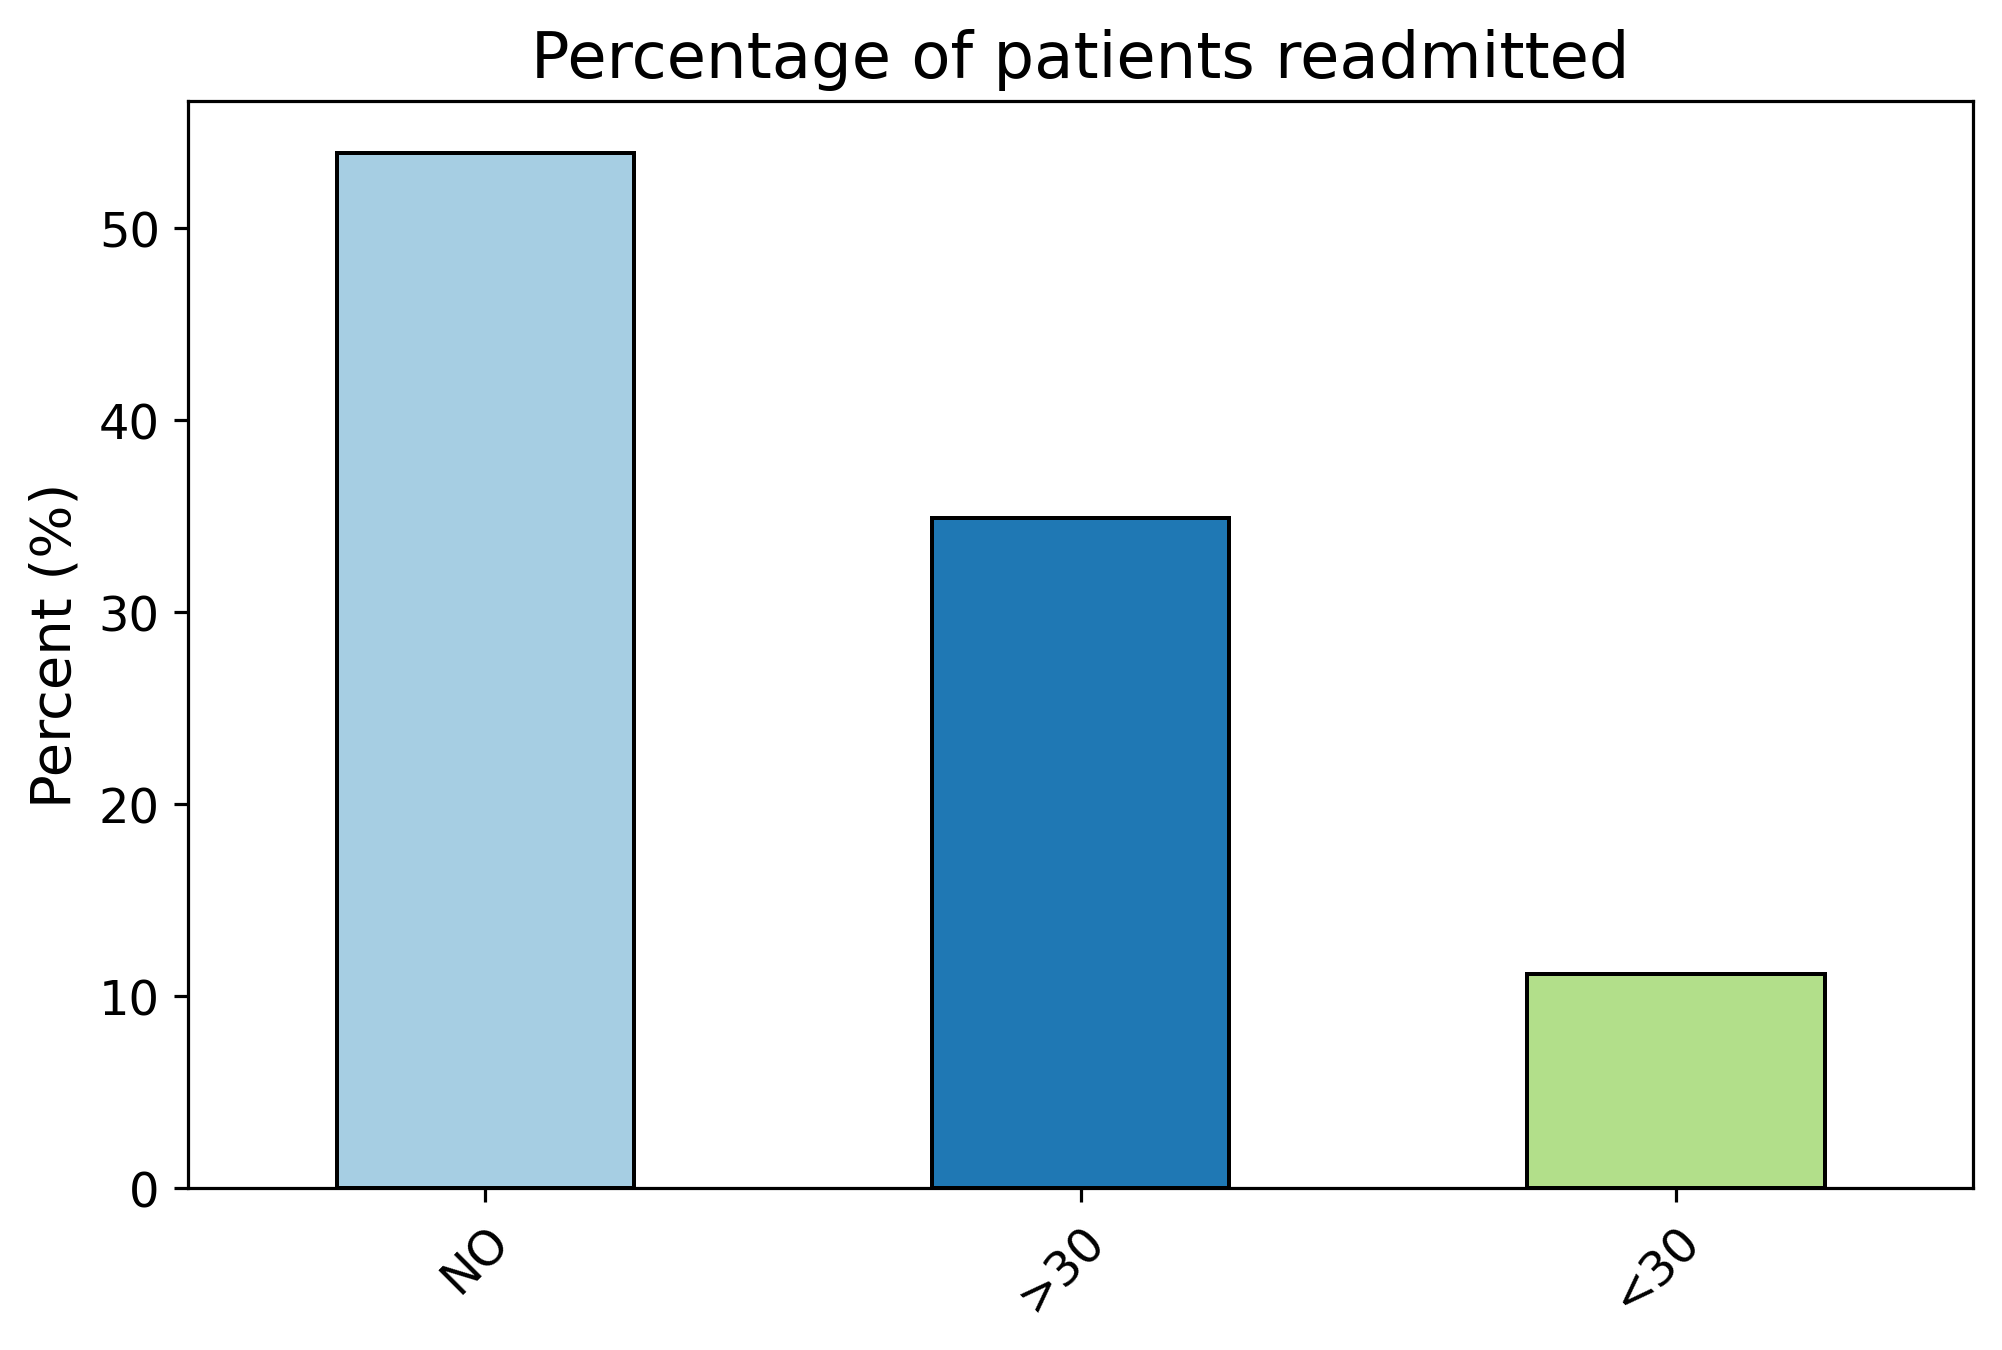
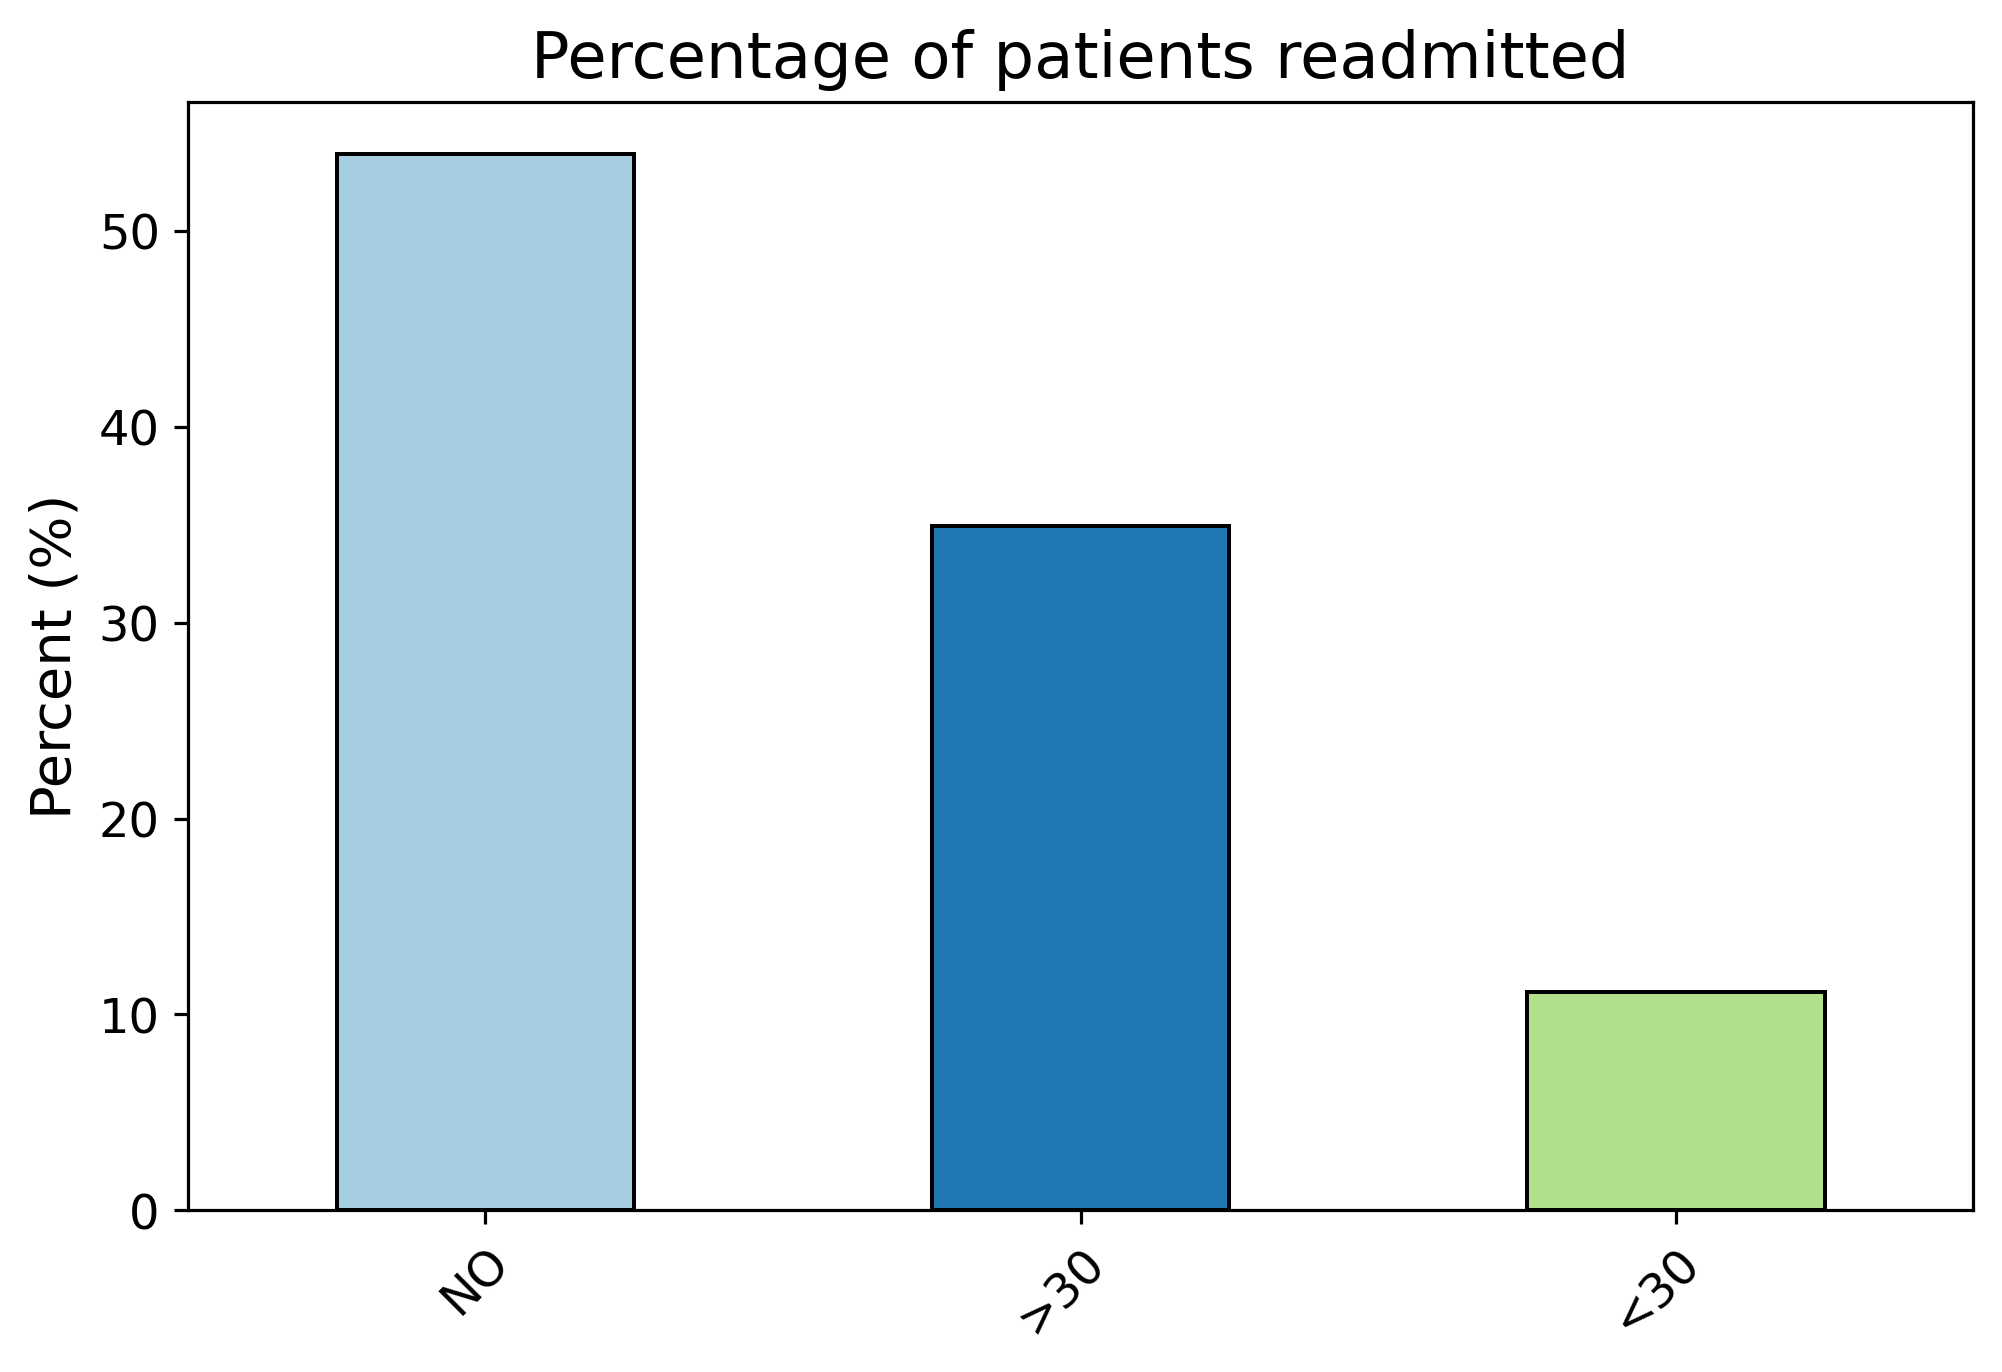
Percentage of patients readmitted

diff --git a/exploratory_data_analysis/readmitted.py b/exploratory_data_analysis/readmitted.py
@@ -1,0 +1,24 @@
+#! /usr/bin/env python
+
+import pandas as pd
+import matplotlib.pyplot as plt
+import os
+from pathlib import Path
+
+home = os.environ['HOME']
+
+work_dir = Path(home) / 'Programming/Python/machine-learning-exercises/kaggle-notebooks/diabetes-in-130-US-hospitals/'
+data_file = work_dir / 'data/diabetic_data.csv'
+
+df = pd.read_csv(data_file, na_values='?', low_memory=False)
+obj_cols = df.select_dtypes('object').columns
+df[obj_cols] = df[obj_cols].astype('category')
+
+readmitted_df = df['readmitted'].value_counts(dropna=False)
+readmitted_df = readmitted_df/readmitted_df.sum()*100
+ax = readmitted_df.plot(kind='bar', color=plt.cm.Paired.colors, figsize=(8, 5), edgecolor='k')
+plt.setp(ax.get_xticklabels(), ha="right", rotation_mode="anchor", rotation=45, fontsize=12)
+plt.setp(ax.get_yticklabels(), fontsize=12)
+ax.set_ylabel('Percent (%)', fontsize=14)
+ax.set_title('Percentage of patients readmitted', fontsize=16)
+plt.savefig('plots/readmitted.png', dpi=288, bbox_inches='tight')
